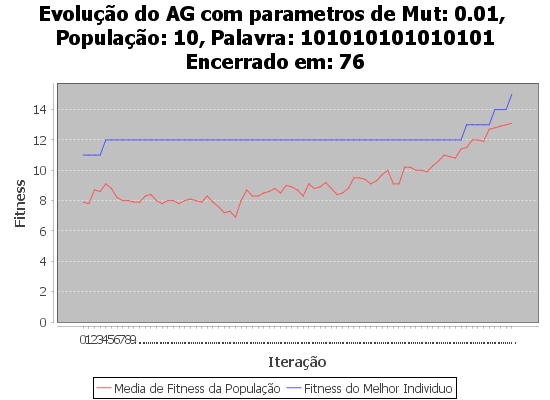
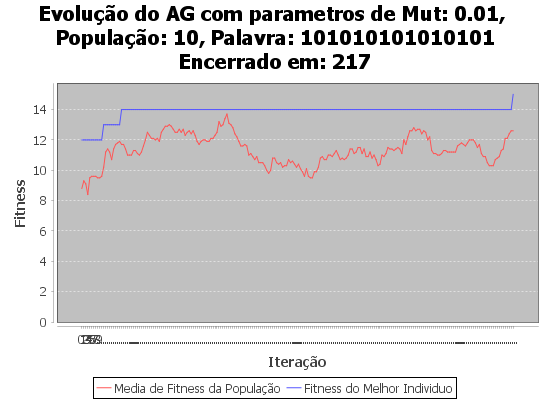
Atualização nos graficos devido execução e modificação da pasta no programa.

diff --git a/AlgoritmoGenetic_2/src/AGCanonico/AG.java b/AlgoritmoGenetic_2/src/AGCanonico/AG.java
@@ -272,7 +272,7 @@ class AG implements Runnable {
 			    "Fitness", ds, PlotOrientation.VERTICAL, true, true, false);
 		OutputStream arq;
 		try {
-			arq = new FileOutputStream(this.nomeGrafico+ ".png");
+			arq = new FileOutputStream("AlgoritmoGenetic_2\\"+this.nomeGrafico+ ".png");
 			ChartUtilities.writeChartAsPNG(arq, grafico, 550, 400);
 			arq.close();
 		} catch (IOException e) {
